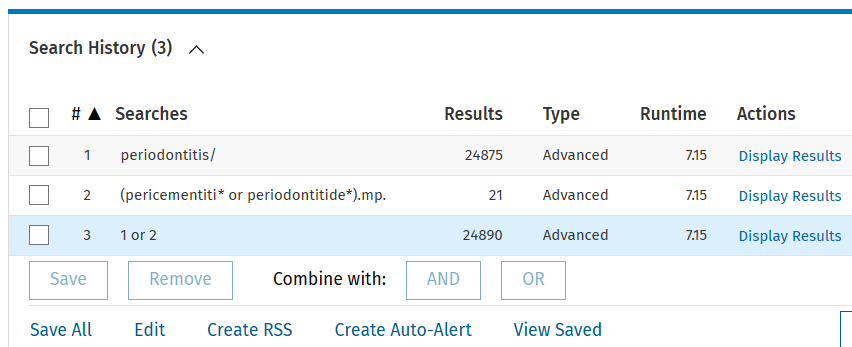
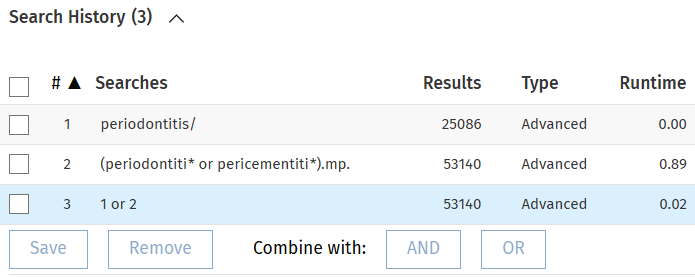
Add MeSH term as part of textword search

diff --git a/README.md b/README.md
@@ -38,19 +38,20 @@ To improve search coverage, search statements can be further expanded by includi
 
     ![alt text](static/img/image-4.png)
 
-## Step: Comprehensive search
+## Step: Develop search
 
 For example, to perform a comprehensive search on periodontitis: 
 
 1. We use the MeSH term search syntax `periodontitis/`.
 
-    Note: The trailing slash `/` signifies an exact subject heading search. It tells Ovid to look in the official subject heading field articles containing the subject heading `periodontitis`.
+    Note: The trailing slash `/` signifies an exact subject heading search. It tells Ovid to look in the official subject heading field for the term `periodontitis`.
     
-    It **does not** automatically include records with narrower subject headings beneath it in the subject heading hierarchy. To include **all** the descendant MeSH terms, use the `exp` operator, e.g. `exp periodontitis/`.
+    It **does not** automatically include records with narrower subject headings beneath it in the MeSH hierarchy. To include **all** the descendant MeSH terms, use the `exp` operator, e.g. `exp periodontitis/`.
 
-1. We also combine the search with the following synonyms:
+1. We then build the textword search using the term `periodontitis` and its synonyms:
 
     ```
+    periodontitis OR
     pericementitides OR
     pericementitis OR
     periodontitides
@@ -59,7 +60,7 @@ For example, to perform a comprehensive search on periodontitis:
     Which can be further simplified using the truncation syntax into:
 
     ```
-    (pericementiti* OR periodontitide*).mp.
+    (periodontiti* OR pericementiti*).mp.
     ```
 
     Note: The trailing `.mp.` stands for "multi purpose" for Ovid. It means the search will look into multiple fields like title, abstract and keywords ([detailed explanation](https://ospguides.ovid.com/OSPguides/medline.htm#mpalias)).
@@ -68,23 +69,22 @@ For example, to perform a comprehensive search on periodontitis:
 
     ```
     periodontitis/ OR
-    (pericementiti* OR periodontitide*).mp.
+    (periodontiti* OR pericementiti*).mp.
     ```
 
-### Optional: Separate Step 1 and Step 2
+### Optional: Separate MeSH and textword search
 
-The search steps (Step 1 and Step 2) can be performed separately in the Ovid search form. By separating the steps, you will be able to visualise how many additional records that were retrieved via synonyms.
+The search steps (MeSH term and textword) can be performed separately in the Ovid search form. By separating the steps, you will be able to visualise how many additional records that were retrieved via synonyms.
 
 At the time of writing:
 
-- `periodontitis/` returned `24,875` hits
-- `(pericementiti* or periodontitide*).mp.` returned `21` hits
-- `1 or 2` returned `24,890` hits
+- `periodontitis/` returned `25,086` hits
+- `(periodontiti* or pericementiti*).mp.` returned `53,140` hits
+- `1 or 2` returned `53,140` hits
 
 ![search history for separate steps](static/img/image-5.png)
 
-This means that the `mp` search using synonyms returned an additional `15` records.
-
+This indicates that the textword search yielded `28,054` additional records.
 
 ## Credits
 
